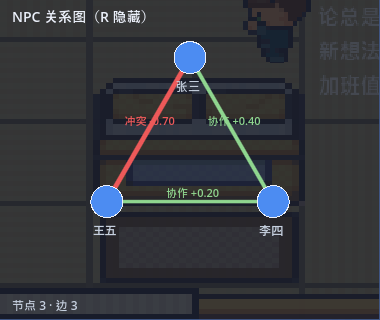
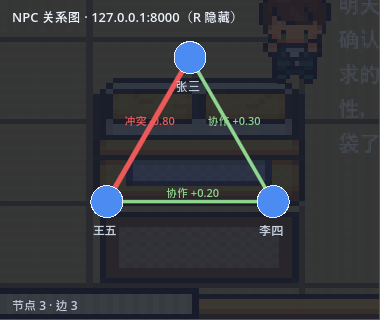
fix: 面板"暂无关系数据"的真因是两个命令坑 + 面板自诊断 + 一键演示脚本
用户按上一轮命令跑，面板显示"暂无关系数据"。逐条复现后确认**两条命令都有问题**：

1. `python -m uvicorn main:app --port 8000`
   PATH 上的 python 是 `D:\study\Anaconda3\python.exe`，没有 uvicorn/fastapi，
   后端根本没启动（`No module named uvicorn`）。面板自然拉不到数据。
2. `curl.exe -d "{\"kind\":\"conflict\",...}"`
   PowerShell 把 `\"` 的转义规则吃掉，后端收到非法 JSON，返回
   `422 json_invalid: Expecting property name enclosed in double quotes`，事件没生效。

改动：

- godot/scripts/relations_panel.gd：失败要说人话
  * 标题显示后端地址（`NPC 关系图 · 127.0.0.1:8000`）
  * 区分三种失败：`连不上 host（后端没启动？）` / `后端返回 4xx（路径或参数不对）` / `数据格式异常`
  * 失败时打印 `[WARN] 关系面板: ...`，并在回调里打印 result/code/bytes
- godot/scripts/main.gd：自动截图等待 3s → 8s（否则 HTTP 超时分支还没走到就退出了，
  这也是第一次验证时没看到失败日志的原因）
- tools/run_demo.ps1：一条命令起演示（找解释器→起后端→造关系→开游戏）
  * 优先用 E:\Conda\envs\helloagents\python.exe，并先验证 uvicorn/fastapi 可导入
  * 造数据改用 Invoke-RestMethod + ConvertTo-Json + UTF-8 字节，不做手工转义
  * 脚本保存为 UTF-8 带 BOM（PS 5.1 按 ANSI 读无 BOM 脚本会报 Missing closing '}'）
  * 列表用 RawContentStream + UTF8.GetString 解码（PS 5.1 会把无 charset 的 JSON 当 ANSI，中文变乱码）
- docs/images/relations_panel.png：重新导出（红冲突线 + 绿协作线）
- docs/RELATIONS.md：加"一键起演示"与故障自查表

验证：
- 后端停止时面板日志 `[WARN] 关系面板: 连不上 127.0.0.1:8000（后端没启动？）`
- 后端启动并造数据后 `[INFO] 关系面板刷新: 节点 3 · 边 3`
- run_demo.ps1 -NoGame 退出码 0，输出 `张三↔王五 conflict -0.8`（中文正常）
- 预览图像素：深色底 49.5%、节点蓝 2262px、浅绿 995px、红 664px、白字 826px

diff --git a/docs/RELATIONS.md b/docs/RELATIONS.md
@@ -254,6 +254,32 @@ E:\Software\Godot\Godot-4.5.2\Godot_v4.5.2-stable_win64_console.exe --headless ^
 这检查的是「能不能看清」的客观前提（不越界、不压住对话框、节点不重叠），
 **不是审美**。配色与字号是否顺眼仍需人看一眼。
 
+## 一键起演示
+
+```powershell
+powershell -ExecutionPolicy Bypass -File tools\run_demo.ps1
+# 只起后端并造数据，不开游戏：
+powershell -ExecutionPolicy Bypass -File tools\run_demo.ps1 -NoGame
+```
+
+脚本做四件事：找可用解释器 → 起后端（独立窗口）→ 施加 4 次关系事件 → 打开游戏。
+它填的是三个真实踩过的坑：
+
+| 坑 | 现象 | 脚本怎么处理 |
+|---|---|---|
+| PATH 上的 `python` 是 Anaconda 基础环境 | `No module named uvicorn`，后端根本不启动，面板显示"暂无关系数据" | 优先用 `E:\Conda\envs\helloagents\python.exe`，并先 `import uvicorn, fastapi` 验证，失败就明确报错 |
+| PowerShell 里 `curl.exe -d "{\"k\":\"v\"}"` 转义被吃 | 后端返回 422 `JSON decode error`，事件没生效 | 改用 `Invoke-RestMethod` + `ConvertTo-Json` + UTF-8 字节，不做手工转义 |
+| PS 5.1 按 ANSI 读无 BOM 的 .ps1 | 整个脚本报 `Missing closing '}'` | 脚本保存为 UTF-8 **带 BOM** |
+| `Invoke-RestMethod` 解析无 charset 的 JSON | 中文全变乱码（`å¼ ä¸`） | 用 `RawContentStream` + `UTF8.GetString` 手工解码 |
+
+### 面板没数据时怎么自查
+
+面板标题会显示后端地址，底部会显示原因：
+
+- `连不上 127.0.0.1:8000（后端没启动？）` → 后端没起来（最常见：`python` 缺 uvicorn）
+- `后端返回 404/422（路径或参数不对）` → 地址拼错，或造数据的事件请求非法
+- `节点 3 · 边 3` → 正常
+
 ## 边界（不假装）
 
 1. **关系只由显式事件驱动，不从对话里自动推断。** 自动推断需要 LLM 判定"这句话算不算帮忙"，
